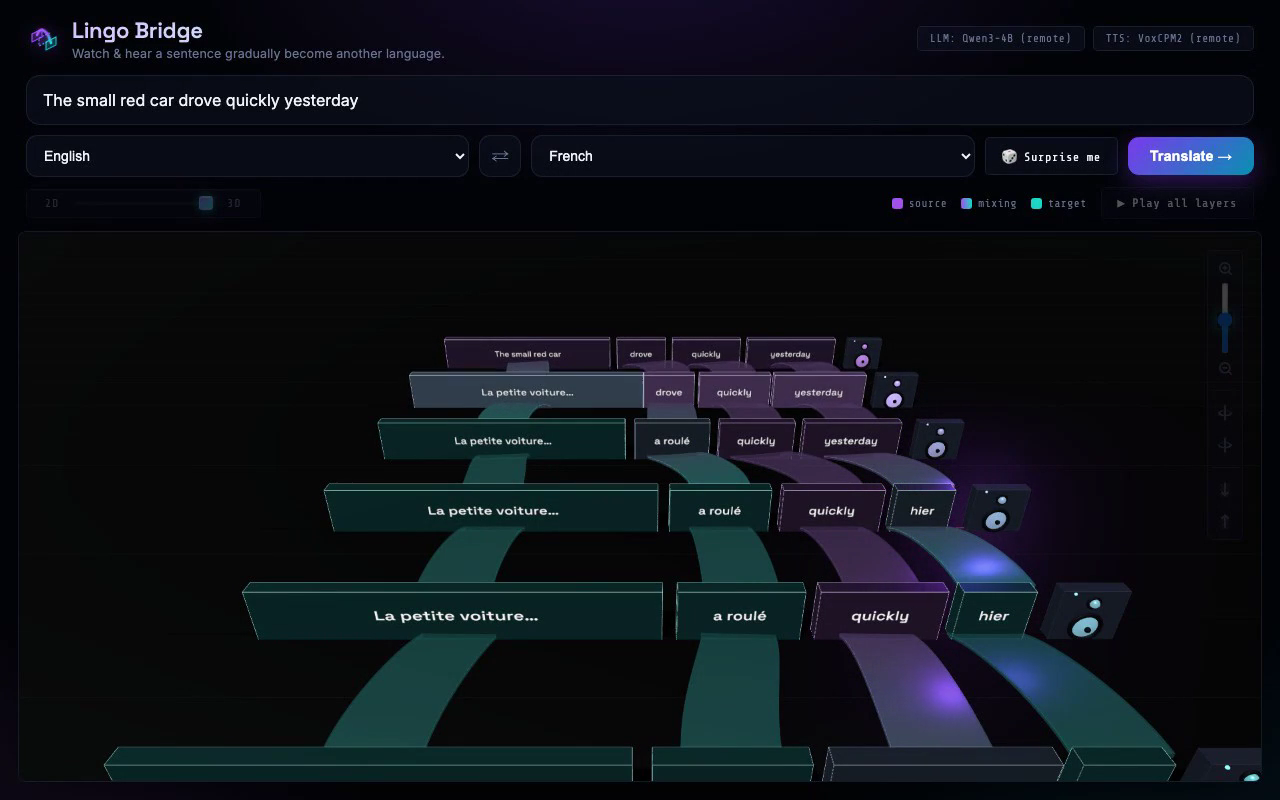
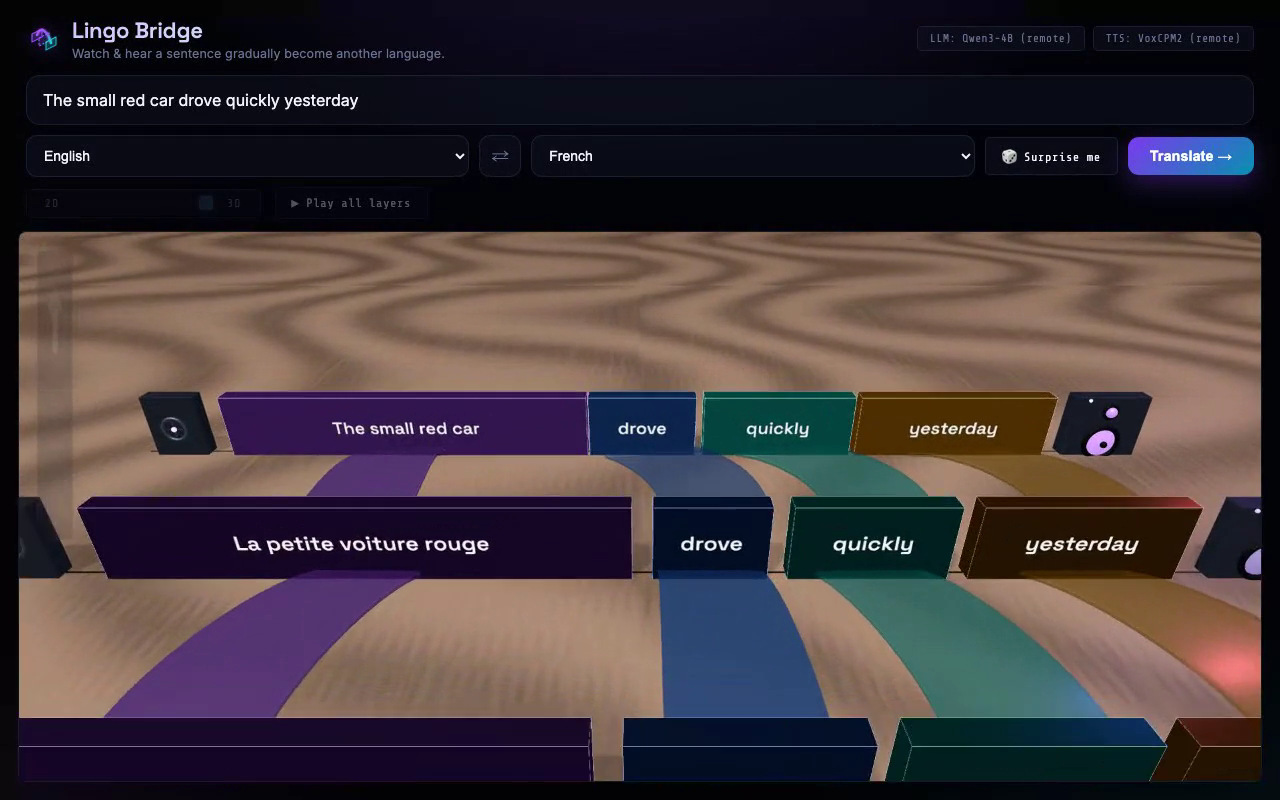
Fix scroll-zoom hijack on embedded 3D view; correct submission tags
- view3d.js: remove wheel-to-zoom handler so the mouse wheel scrolls the
  host page normally on the HF Space (was making the card stack 'keep
  expanding' on scroll); on-screen zoom/perspective controls remain.
- Bump static cache-bust to v=21.
- README: switch to the canonical achievement:* / track:wood tag scheme
  (badge:* / track:thousand-token-wood were unrecognized); add
  achievement:llama + achievement:tinytitan + achievement:fieldnotes;
  drop offgrid (we run on Modal cloud, not local). Add 'What I learned'.
- Refresh demo.mp4 + poster.png from the latest UI.
- Add docs/social_post.md, docs/transcript.txt.

diff --git a/static/view3d.js b/static/view3d.js
@@ -1,6 +1,6 @@
 import * as THREE from "three";
 import { OrbitControls } from "three/addons/controls/OrbitControls.js";
-import { mixRGB } from "/static/app.js?v=20";
+import { mixRGB } from "/static/app.js?v=21";
 
 const col = (mix) => {
   const [r, g, b] = mixRGB(mix);
@@ -82,23 +82,11 @@ export class CardsView {
     this.controls.maxPolarAngle = Math.PI * 0.5;
     this.controls.minDistance = 4.0;
     this.controls.maxDistance = 100.0;
-    this.controls.enableZoom = false; // Disable default zoom scroll to use custom combined scroll
-
-    // Combined scroll handler: mouse wheel adjusts both perspective morph and camera closeness
-    this.renderer.domElement.addEventListener("wheel", (e) => {
-      if (!this.controlsEnabled) return;
-      e.preventDefault();
-      const delta = -e.deltaY * 0.0012; // zoom scroll speed factor
-      
-      // Update target perspective factor
-      this.targetPerspective = Math.max(0, Math.min(1, this.targetPerspective + delta));
-      
-      // Scale radius/closeness target in sync with perspective factor
-      const { minRadius, maxRadius } = this._getRadii();
-      
-      this.targetCamRadius = Math.max(minRadius, Math.min(maxRadius, (this.targetCamRadius || this.camRadius) - delta * (maxRadius - minRadius) * 0.85));
-      this._updateMorph();
-    }, { passive: false });
+    // Wheel zoom is intentionally OFF so the mouse wheel scrolls the host page
+    // normally (the app is embedded in an iframe on the HF Space — hijacking the
+    // wheel made the stack "keep expanding" on scroll). Zoom/perspective are
+    // driven by the on-screen slider + buttons instead.
+    this.controls.enableZoom = false;
 
     // Bright studio ambient + soft sky/ground hemisphere fill
     this.scene.add(new THREE.AmbientLight(0xffffff, 1.15));

diff --git a/static/index.html b/static/index.html
@@ -7,7 +7,7 @@
   <link rel="preconnect" href="https://fonts.googleapis.com">
   <link rel="preconnect" href="https://fonts.gstatic.com" crossorigin>
   <link href="https://fonts.googleapis.com/css2?family=Inter:wght@400;500;600;700&family=Space+Grotesk:wght@500;600;700&family=Share+Tech+Mono&display=swap" rel="stylesheet">
-  <link rel="stylesheet" href="/static/style.css?v=20" />
+  <link rel="stylesheet" href="/static/style.css?v=21" />
   <link rel="icon" type="image/svg+xml" href="/static/logo.svg" />
 </head>
 <body>
@@ -151,6 +151,6 @@
       "three/addons/controls/OrbitControls.js": "/static/vendor/OrbitControls.js"
   }}
   </script>
-  <script src="/static/app.js?v=20" type="module"></script>
+  <script src="/static/app.js?v=21" type="module"></script>
 </body>
 </html>

diff --git a/static/app.js b/static/app.js
@@ -1,4 +1,4 @@
-import { CardsView } from "/static/view3d.js?v=20";
+import { CardsView } from "/static/view3d.js?v=21";
 
 // ---- shared colour helpers (purple -> cyan) --------------------------------
 export const SRC_RGB = [168, 85, 247];

diff --git a/docs/social_post.md b/docs/social_post.md
@@ -1,0 +1,55 @@
+# Social posts — Lingo Bridge (copy & post, then send me the URL)
+
+Space: https://huggingface.co/spaces/build-small-hackathon/lingo-bridge
+📎 Attach the demo video (`docs/demo.mp4`) to the post — it's the whole pitch.
+
+---
+
+## ▶ Option A — X / Twitter (single post, ~280 chars)
+
+🌉 Most translators show you the destination. Lingo Bridge shows you the *journey*.
+
+Watch — and HEAR — a sentence morph into another language across 7 layers: meaning crosses first, then grammar, then word order, in 3D.
+
+All small, local models. #BuildSmall
+
+https://huggingface.co/spaces/build-small-hackathon/lingo-bridge
+
+---
+
+## 🧵 Option B — X / Twitter thread
+
+1/ 🌉 Lingo Bridge: don't just translate a sentence — *watch and hear it become* another language.
+
+Built for the @huggingface × @Gradio #BuildSmall hackathon. 7 stages, 3D, spoken at every step. 👇
+https://huggingface.co/spaces/build-small-hackathon/lingo-bridge
+
+2/ How it works: one small text model (Qwen3-4B) breaks the sentence into phrase "units" and aligns them. Then 7 layers build deterministically — meaning flips first, then actions, time, grammar, and finally the word order rearranges into crossing ribbons. 🟪→🟦
+
+3/ Every layer is spoken aloud by @OpenBMB's VoxCPM2 (built on MiniCPM-4) — 48kHz, 10 languages. The whole thing runs on @modal GPUs and scales to zero. Tiny models, big toy. 🐜
+
+4/ Off-the-shelf translators give you an answer. This gives you the *transformation* — a little language toy you can watch think. Try it 👇
+https://huggingface.co/spaces/build-small-hackathon/lingo-bridge
+
+---
+
+## 💼 Option C — LinkedIn
+
+🌉 I built **Lingo Bridge** for the Hugging Face × Gradio "Build Small" hackathon.
+
+Most translators show you the destination. Lingo Bridge shows you the *journey*: it turns one sentence into a 7-stage transformation from one language to another — meaning crosses first, then actions, then time words, then grammar, and finally the word order rearranges — rendered as an interactive 3D card stack and **spoken aloud at every stage**.
+
+It runs entirely on small, open models (each well under 32B):
+• Qwen3-4B (text decomposition) via llama.cpp
+• OpenBMB VoxCPM2 — built on MiniCPM-4 — for speech, in 10 languages
+• Served on Modal GPUs (scale-to-zero), behind a custom Three.js UI in a Gradio Space
+
+Try it: https://huggingface.co/spaces/build-small-hackathon/lingo-bridge
+
+#BuildSmall #HuggingFace #Gradio #SmallModels #AI
+
+---
+
+## Hashtags / handles to consider
+#BuildSmall #HuggingFace #Gradio #SmallModels #LocalAI
+@huggingface @Gradio @OpenBMB @modal

diff --git a/README.md b/README.md
@@ -9,13 +9,13 @@ pinned: true
 license: apache-2.0
 short_description: Watch & hear a sentence gradually become another language.
 tags:
-  - track:thousand-token-wood
-  - badge:off-brand
-  - badge:tiny-titan
-  - badge:best-demo
-  - badge:bonus-quest-champion
+  - track:wood
   - sponsor:openbmb
   - sponsor:modal
+  - achievement:offbrand
+  - achievement:llama
+  - achievement:tinytitan
+  - achievement:fieldnotes
   - minicpm
   - small-models
   - translation
@@ -30,7 +30,7 @@ Most translators show you a destination. **Lingo Bridge shows you the journey.**
 
 ## 🎬 Demo
 
-▶ **[Demo video](docs/demo.mp4)**  ·  📣 **[Social post](https://x.com/)** _(add link)_
+▶ **[Demo video](docs/demo.mp4)**  ·  📣 **Social posts:** [X/Twitter](https://x.com/auracanvas/status/2066666490871558485) · [Bluesky](https://bsky.app/profile/auracanvas.bsky.social/post/3moehclek7k26)
 
 ![Lingo Bridge](docs/poster.png)
 
@@ -52,12 +52,21 @@ English · Spanish · French · Italian · Portuguese · German · Russian · Ja
 ## 🏆 What we're entered for
 
 - **Track — Thousand Token Wood** (a delightful, AI-native language toy).
-- 🎨 **Off Brand** — a fully custom Three.js UI, far past the default Gradio look, mounted via `gr.mount_gradio_app`.
-- 🐜 **Tiny Titan** — every model is ≤4B (Qwen3-4B + VoxCPM2 2B).
+- 🎨 **Off Brand** (`achievement:offbrand`) — a fully custom Three.js UI, far past the default Gradio look, mounted via `gr.mount_gradio_app`.
+- 🦙 **Llama Champion** (`achievement:llama`) — the text model (Qwen3-4B) runs through the **llama.cpp** runtime.
+- 🐜 **Tiny Titan** (`achievement:tinytitan`) — every model is ≤4B (Qwen3-4B + VoxCPM2 2B).
+- 📓 **Field Notes** (`achievement:fieldnotes`) — see *What I learned* below.
 - 🎬 **Best Demo** — app + demo video + social post.
 - 🏅 **Bonus Quest Champion** — multiple bonus criteria met.
 - **OpenBMB · Best MiniCPM Build** — speech by **VoxCPM2 (MiniCPM-4 backbone)**.
 - **Modal · Best Use of Modal** — Qwen3-4B + VoxCPM2 run on Modal (L4, scale-to-zero); see Architecture.
+
+## 📓 What I learned (field notes)
+
+- **Push structure into Python, not the prompt.** Asking the LLM for the full 7-layer graph produced broken links. Asking for *one* thing — aligned phrase units `{source, target, type, order_target}` — and building the layers deterministically in Python made **every link valid by construction**. The model does the part only a model can; code does the rest.
+- **Small genuinely won on latency.** Qwen3-4B nailed the decomposition across all 10 languages. I tried NVIDIA's Nemotron-9B-v2 for a sponsor prize, but its hybrid-Mamba decode took >120s for a single interactive translation — unusable for a *toy*. The 4B model was both good enough and fast enough.
+- **VoxCPM2 reads mixed-language text directly.** No language tag needed, which is exactly what the hybrid intermediate layers (half source, half target) require — a per-language TTS would have choked on them. Reusing one anchor clip kept the narrator voice consistent across layers.
+- **Thin Space + Modal GPU is the right split.** A free CPU Space serving the custom UI and proxying model calls to a scale-to-zero Modal L4 keeps the Space light and the GPU cheap, while pre-rendering the demo examples (layers **and** audio) makes the toy feel instant even on a cold backend.
 
 ## 🏗️ Architecture
 
@@ -79,6 +88,6 @@ python3 app.py
 - **REQ-01 ≤32B/model** — Qwen3-4B + VoxCPM2 (2B). ✓
 - **REQ-02 Gradio Space in the org** — Docker Space `build-small-hackathon/lingo-bridge`. ✓
 - **REQ-03 Demo video** — [docs/demo.mp4](docs/demo.mp4). ✓
-- **REQ-04 Social post** — _add the link above._ ⬜
+- **REQ-04 Social post** — [X](https://x.com/auracanvas/status/2066666490871558485) · [Bluesky](https://bsky.app/profile/auracanvas.bsky.social/post/3moehclek7k26). ✓
 - **REQ-05 ZeroGPU limit** — n/a (GPU on Modal, not ZeroGPU). ✓
 - **REQ-06 README tags + write-up** — above. ✓